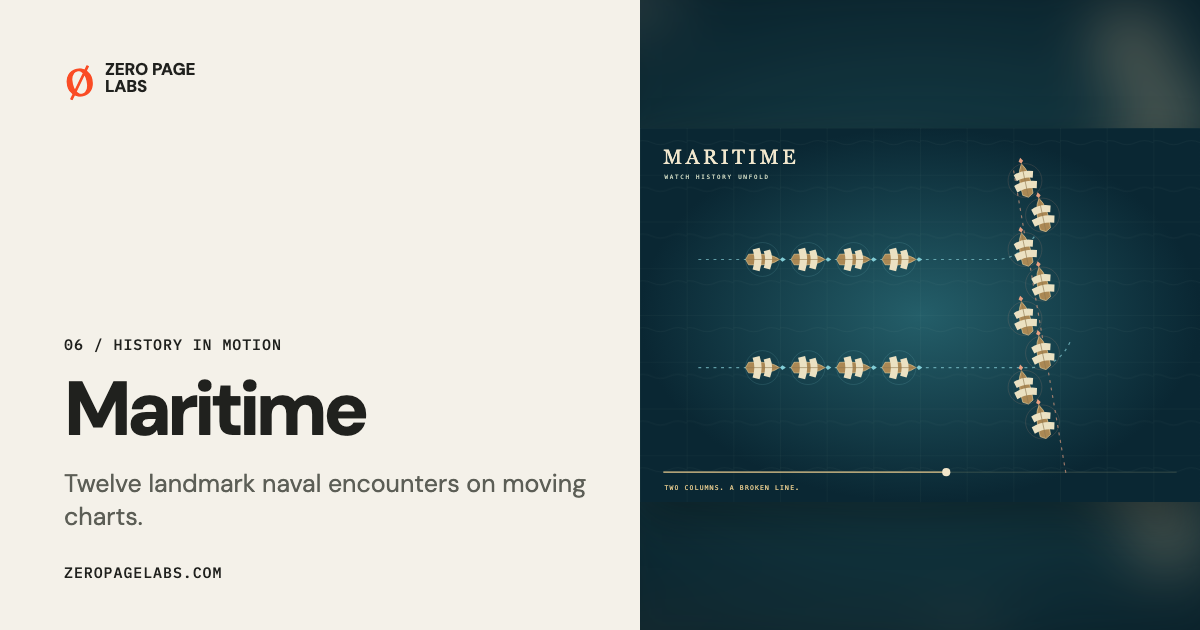
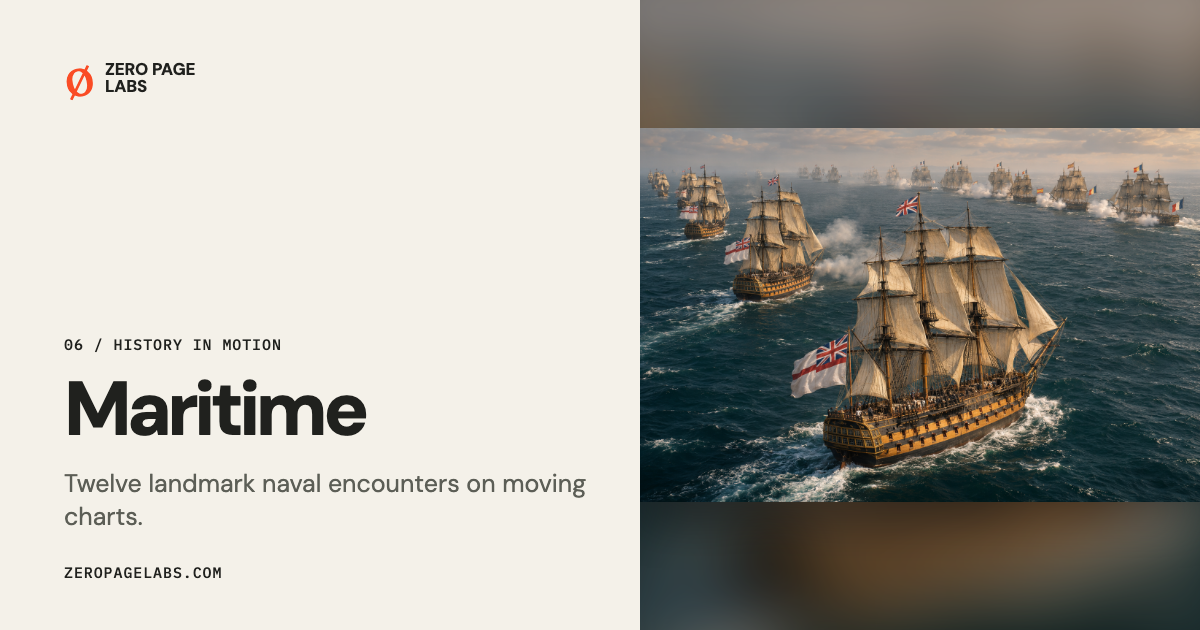
Give Maritime card a realistic naval fleet illustration

diff --git a/knowledge/domain/content.md b/knowledge/domain/content.md
@@ -24,3 +24,6 @@ Public examples are bundled in experiments-source/lexical/src/text-examples.js; 
 
 ## 2026-11-25 — Bellona cover illustration
 Replaced the schematic card with `assets/experiment-bellona-realistic.png` (1536×1024), generated using built-in imagegen. Artistic model-ship illustration, not a documentary photograph or verified reconstruction. Direction: photorealistic wooden Admiralty model, three masts, furled sails, two gun decks, partial hull cutaway, warm ivory studio background, no text. Original SVG retained. Home and Experiments consume the catalog cover; Bellona and Experiments share cards were regenerated.
+
+## 2026-11-25 — Maritime cover illustration
+`assets/experiment-maritime-realistic.png` replaces the schematic fleet card. Built-in imagegen produced a realistic age-of-sail fleet scene in teal water, cream canvas, and warm light. This is an artistic illustration, not a documentary reconstruction. Exact prompt: `data/maritime-cover-generation.json`. Original SVG retained. Maritime share card regenerated; 15-page deep verification and share-card freshness passed. Chrome confirmed the full ship composition in the actual card.

diff --git a/task.md b/task.md
@@ -648,3 +648,10 @@ Surface: static build, shared analytics script, privacy notice. Publish through 
 - [x] Share card fingerprints match the changed cover.
 - [x] Deep site verification passes.
 - [x] Public site serves the replacement cover.
+
+## 2026-11-25 — Realistic Maritime cover
+- [x] Maritime cover uses the new realistic fleet illustration.
+- [x] Experiments index loads the replacement image.
+- [x] Maritime share card matches the replacement image.
+- [x] Deep site verification passes.
+- [ ] Public site serves the replacement image.
